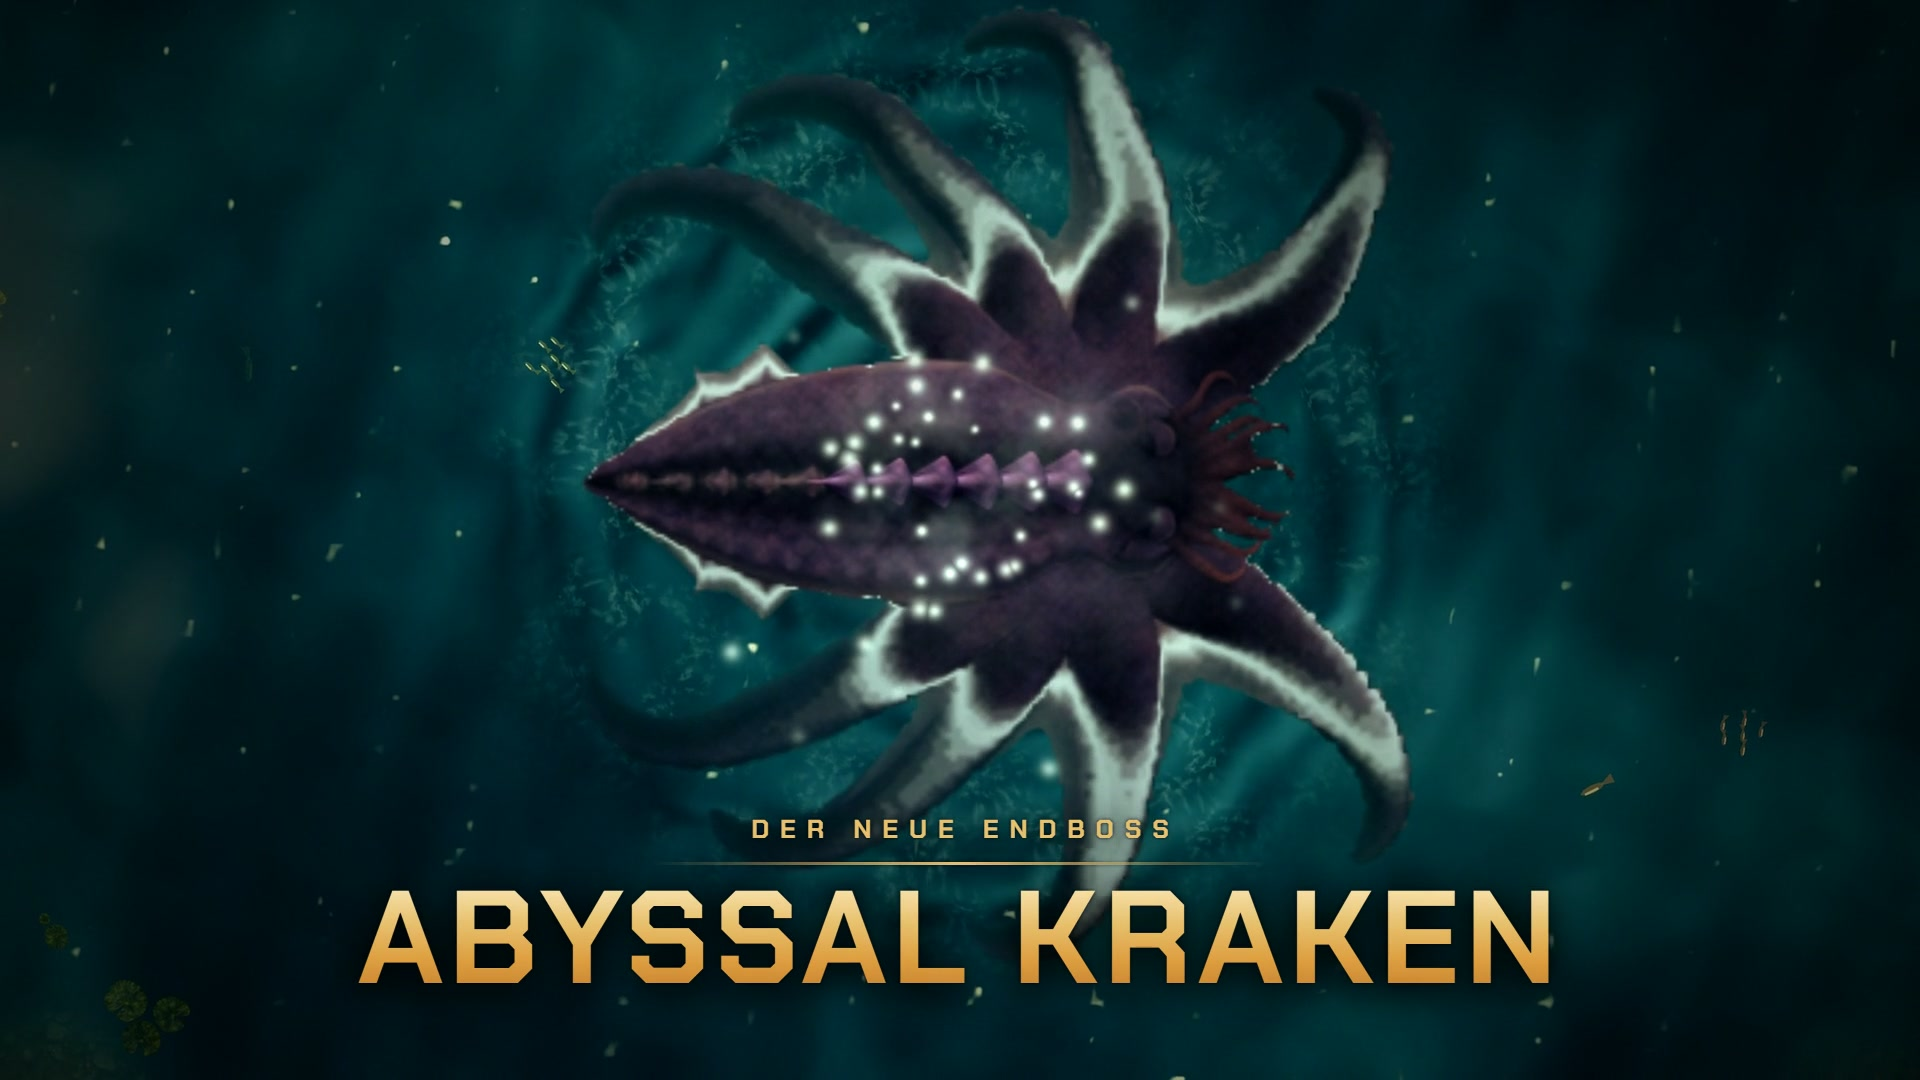
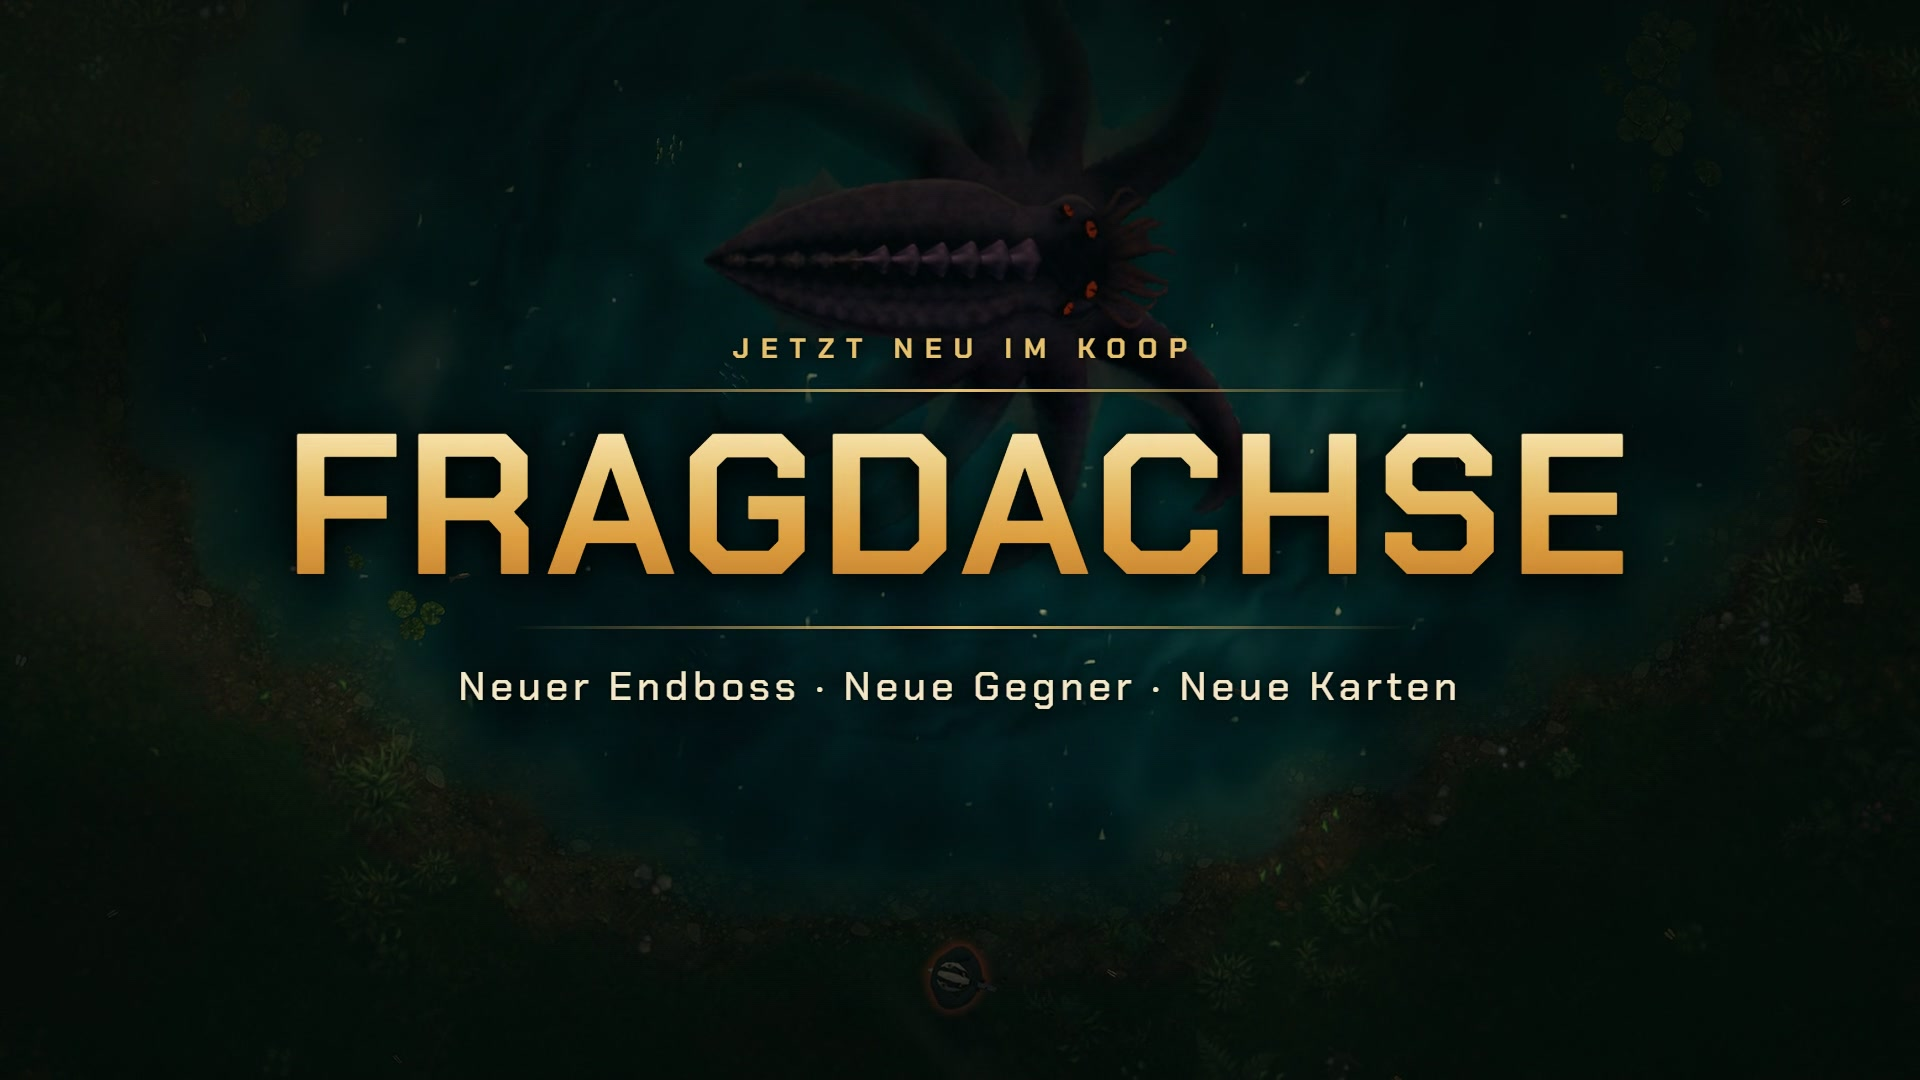
Trailer V2: shield charger, hook opening, tighter camera, dynamic mix
- New shield charger shot (shield absorbs fire, straight lane, charge streak)
- Hook before the calm title; climax cut on the 120 BPM grid; held black
  beat before the end card
- Closer kraken framing with the badger firing; clean boss hits in capture;
  meteor camera kept inside the map
- Music/accent/game buses with sidechain ducking, gunfire attenuated,
  driving beat-77 bed
- Brighter grade with light sharpening; DRAFT=1 draft pipeline; take retries

diff --git a/output/trailer/pipeline-cine-2026-10/README.md b/output/trailer/pipeline-cine-2026-10/README.md
@@ -1,19 +1,31 @@
 # Fragdachse – Social-Trailer „Neue Inhalte“ (Oktober 2026)
 
 Fertige Videos (per `.gitignore` nicht versioniert) liegen in `output/trailer/`:
-`Fragdachse_Trailer_Neu_2026-10_16x9.mp4` (1920×1080) und `…_9x16.mp4` (1080×1920), je 30 s, 60 fps,
-H.264/AAC, −14 LUFS, plus kleinere `…_web.mp4`. Vorschaubild: `poster_16x9.jpg`.
+`Fragdachse_Trailer_Neu_2026-10_v2_16x9.mp4` (1920×1080) und `…_v2_9x16.mp4` (1080×1920), je 30 s, 60 fps,
+H.264/AAC, −14 LUFS, plus kleinere `…_web.mp4`; Version 1 liegt ohne `_v2` daneben. Vorschaubild: `poster_16x9.jpg`.
+Version 2 ergänzt den Schild-Anstürmer und überarbeitet Ton, Schnitt und Bild (Hook, engere Kamera,
+feuernder Dachs, hellere Farbkorrektur, dynamischerer Mix).
 
 ## Neu erzeugen (alle Zwischenergebnisse landen ignoriert in diesem Ordner)
-1. Dev-Server auf `http://127.0.0.1:8090` (`npm run dev:browser`).
+1. Dev-Server auf `http://127.0.0.1:8090` (`npm run dev:browser`). Nach vielen Code-Änderungen braucht der
+   erste Seitenaufbau mehrere Minuten (Vite übersetzt neu); danach laufen die Aufnahmen normal.
 2. `node shoot.mjs <shot>` nimmt einen 4K-Master nach `masters/` auf (Rezepte `shots.mjs`; Harness mit eigener
    Kinokamera, Spieluhr mit Zeitlupe und Sound-Protokoll in `harness.mjs`). Action-Shots sind „overcranked“
    (halbe Simulationsgeschwindigkeit); im Schnitt ist `speed: 2` Echtzeit.
-3. `node music.mjs` erzeugt Musikbett und Akzente mit Stable Audio 3 über ComfyUI (:8188, feste Seeds).
+   **Entwurf zuerst:** mit `DRAFT=1` entstehen 1080p-Master in `masters-draft/` (etwa 1 min pro Shot);
+   `audio.mjs` und `assemble.mjs` schneiden mit `DRAFT=1` daraus einen Entwurf des ganzen Trailers.
+3. `node music.mjs` erzeugt Musikbetten und Akzente mit Stable Audio 3 über ComfyUI (:8188, feste Seeds).
+   V2 nutzt `beat-77` durchgehend ab dem Einsatz bei 3 s.
 4. `node titles.mjs` rendert die Titel (Chakra Petch, Spielpalette) für beide Formate.
-5. Schnitt in `edl.mjs`; `node audio.mjs` mischt Musik, Akzente und protokollierte Spiel-Sounds;
-   `node assemble.mjs 16x9|9x16` schneidet, graded, setzt Titel, Blitze und Kino-Balken und muxt den Ton.
+5. Schnitt in `edl.mjs` (120-BPM-Raster, Treffer auf Taktmarken; `TAIL` ist der Endkarten-Hintergrund);
+   `node audio.mjs` mischt Musik, Akzente und protokollierte Spiel-Sounds auf getrennten Bussen
+   (Akzente ducken die Musik, Dauerfeuer ist abgesenkt); `node assemble.mjs 16x9|9x16` schneidet, graded,
+   setzt Titel, Blitze und Kino-Balken und muxt den Ton.
 
 Stolpersteine: `krakenMission` startet das Szenario mit Standardwerten neu (Optionen danach erneut setzen);
 die Stachelsalve braucht ein Ziel außerhalb der Tintenreichweite; ein Land-Ausfall dicht am Ufer wird gestoppt;
-ffmpegs `alimiter` braucht `level=0`, sonst hebt er die Lautheit wieder an.
+der Schild-Anstürmer dreht bewusst langsam – weit genug entfernt spawnen, sonst zeigt die Ankündigungsbahn schräg;
+`C.cleanHits` blendet Blutwolken und „KRIT!“ nur in der Aufnahme aus – bewusst nur in den Kraken-Shots, wo
+Dauerfeuer die rote Tentakel-Warnung zudeckt; sonst gehört Blut zum Spiel und bleibt sichtbar; Bot-Waffen müssen zum Slot passen
+(`weapon1` Pistole, `weapon2` Primärwaffe); ffmpeg verlangt Dauern wie `0.03` statt `.03`;
+`alimiter` braucht `level=0`, sonst hebt er die Lautheit wieder an.
